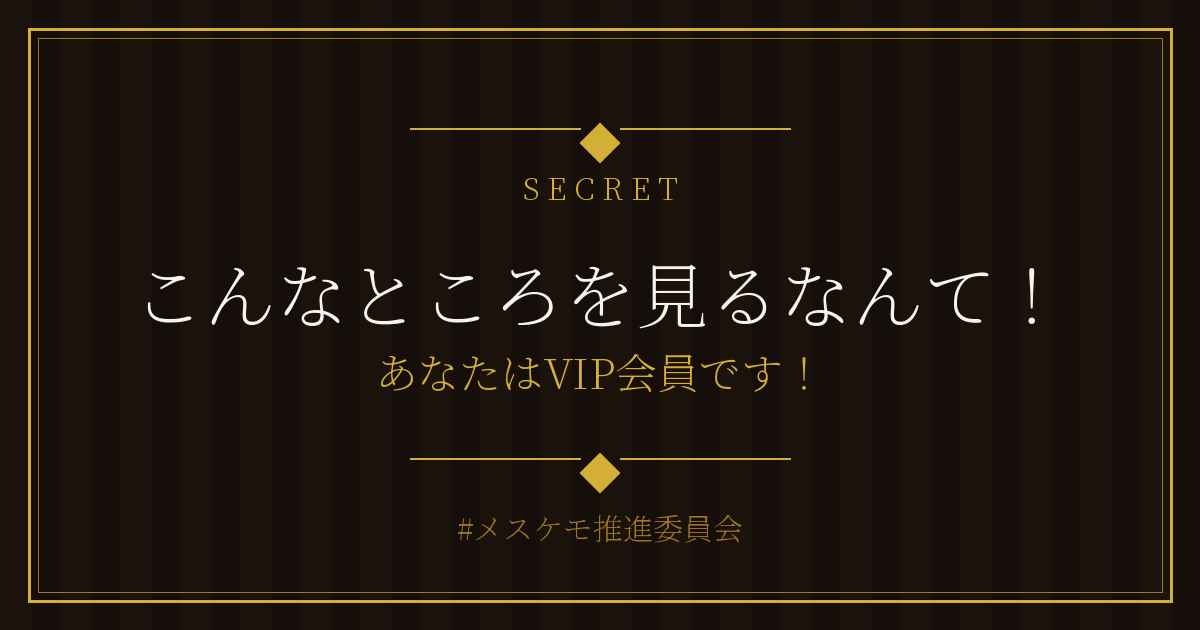
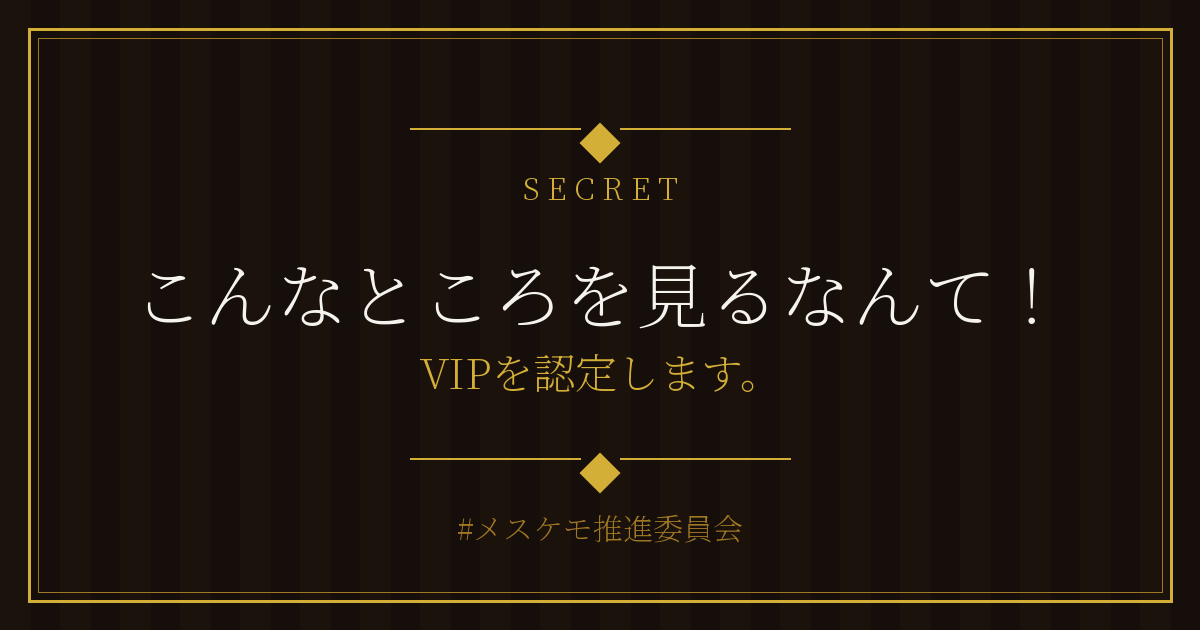
fix: VIPモーダルのテキストを「VIPを認定します。」に変更

Changed region(s): [[0.3083, 0.5429, 0.6475, 0.6333]]

diff --git a/vip.html b/vip.html
@@ -7,7 +7,7 @@
 
     <!-- OGP -->
     <meta property="og:title" content="隠しページを発見、「VIP」を解放しました。">
-    <meta property="og:description" content="こんなところを見るなんて！あなたはVIP会員です！ #メスケモ推進委員会">
+    <meta property="og:description" content="こんなところを見るなんて！VIPを認定します。 #メスケモ推進委員会">
     <meta property="og:image" content="https://ys-0311san.github.io/iinnkai/images/ogp-vip.png">
     <meta property="og:url" content="https://ys-0311san.github.io/iinnkai/vip.html">
     <meta property="og:type" content="website">

diff --git a/index.html b/index.html
@@ -284,7 +284,7 @@
 
             <p class="vip-discover-eyebrow">SECRET</p>
             <h2 class="vip-discover-title" id="vipDiscoverTitle">こんなところを見るなんて！</h2>
-            <p class="vip-discover-sub">あなたはVIP会員です！</p>
+            <p class="vip-discover-sub">VIPを認定します。</p>
 
             <!-- 装飾ライン下 -->
             <div class="vip-discover-ornament" aria-hidden="true">
